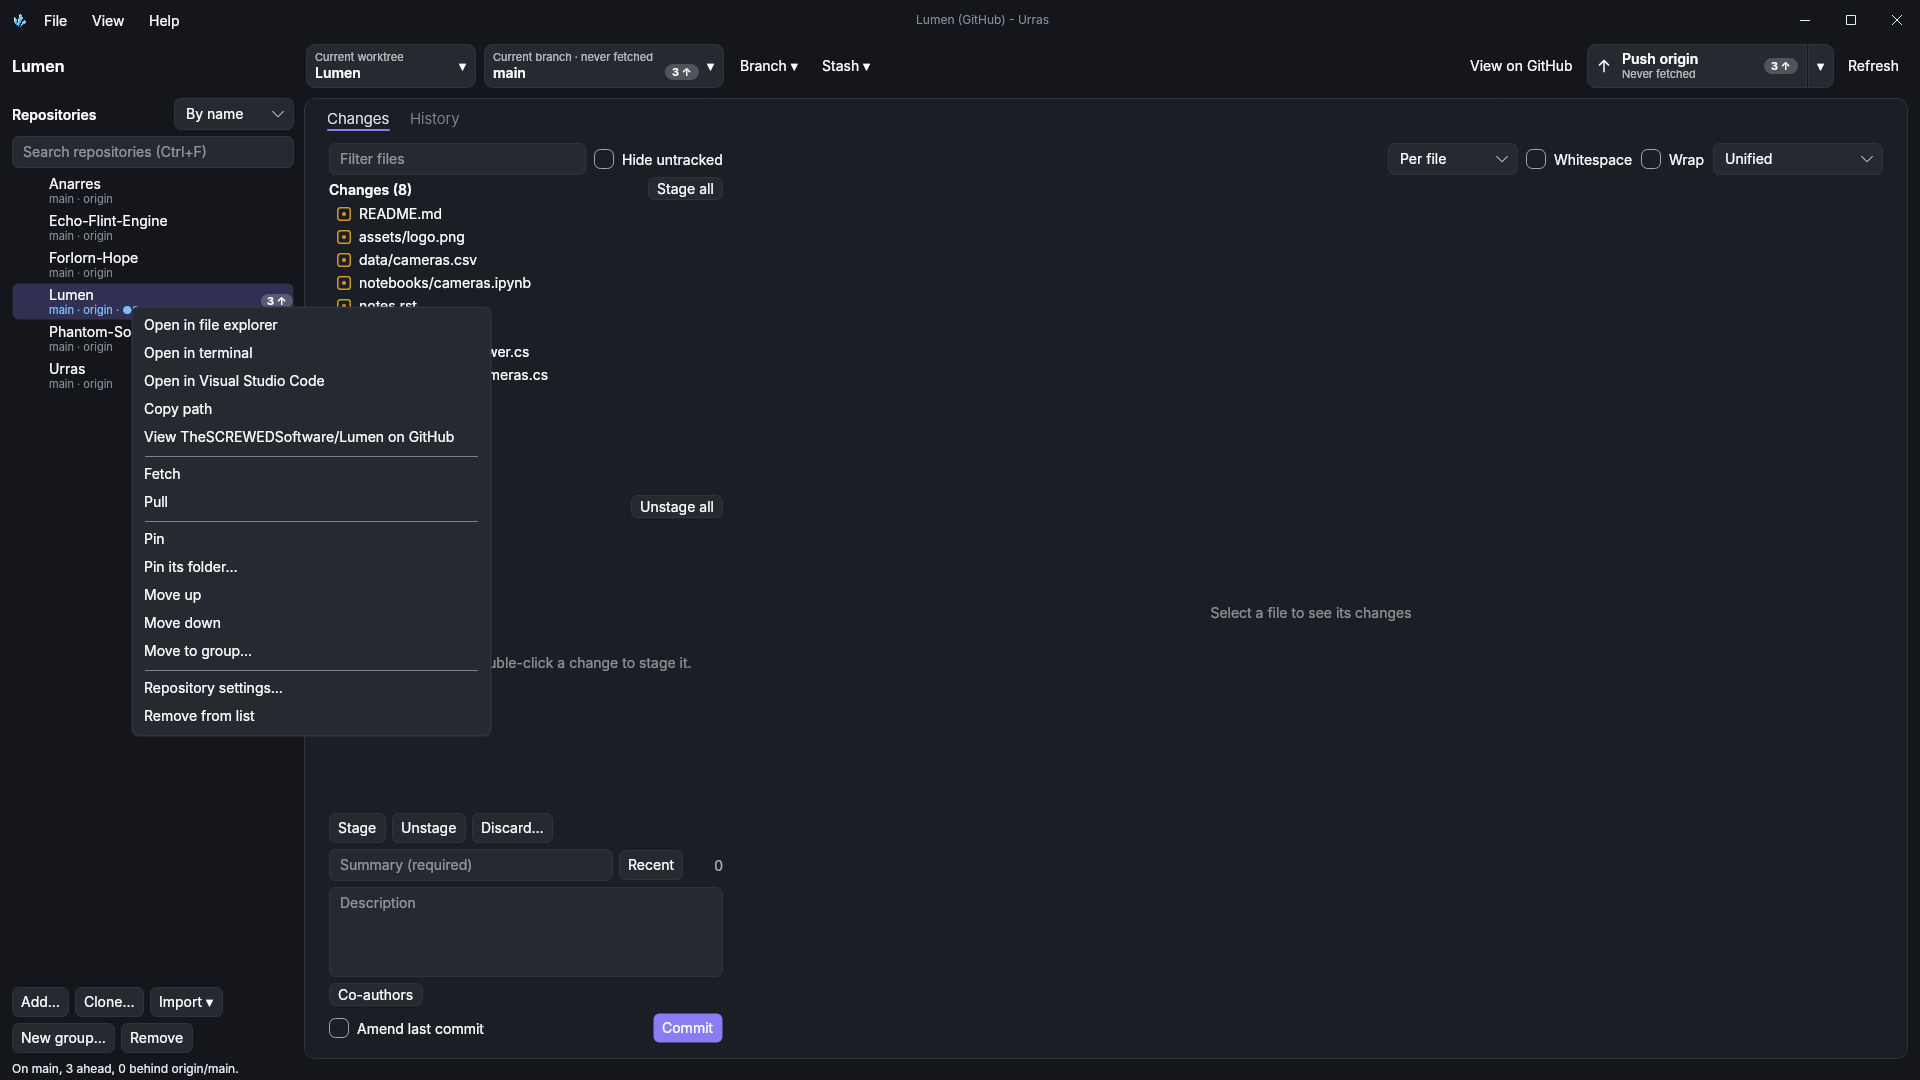
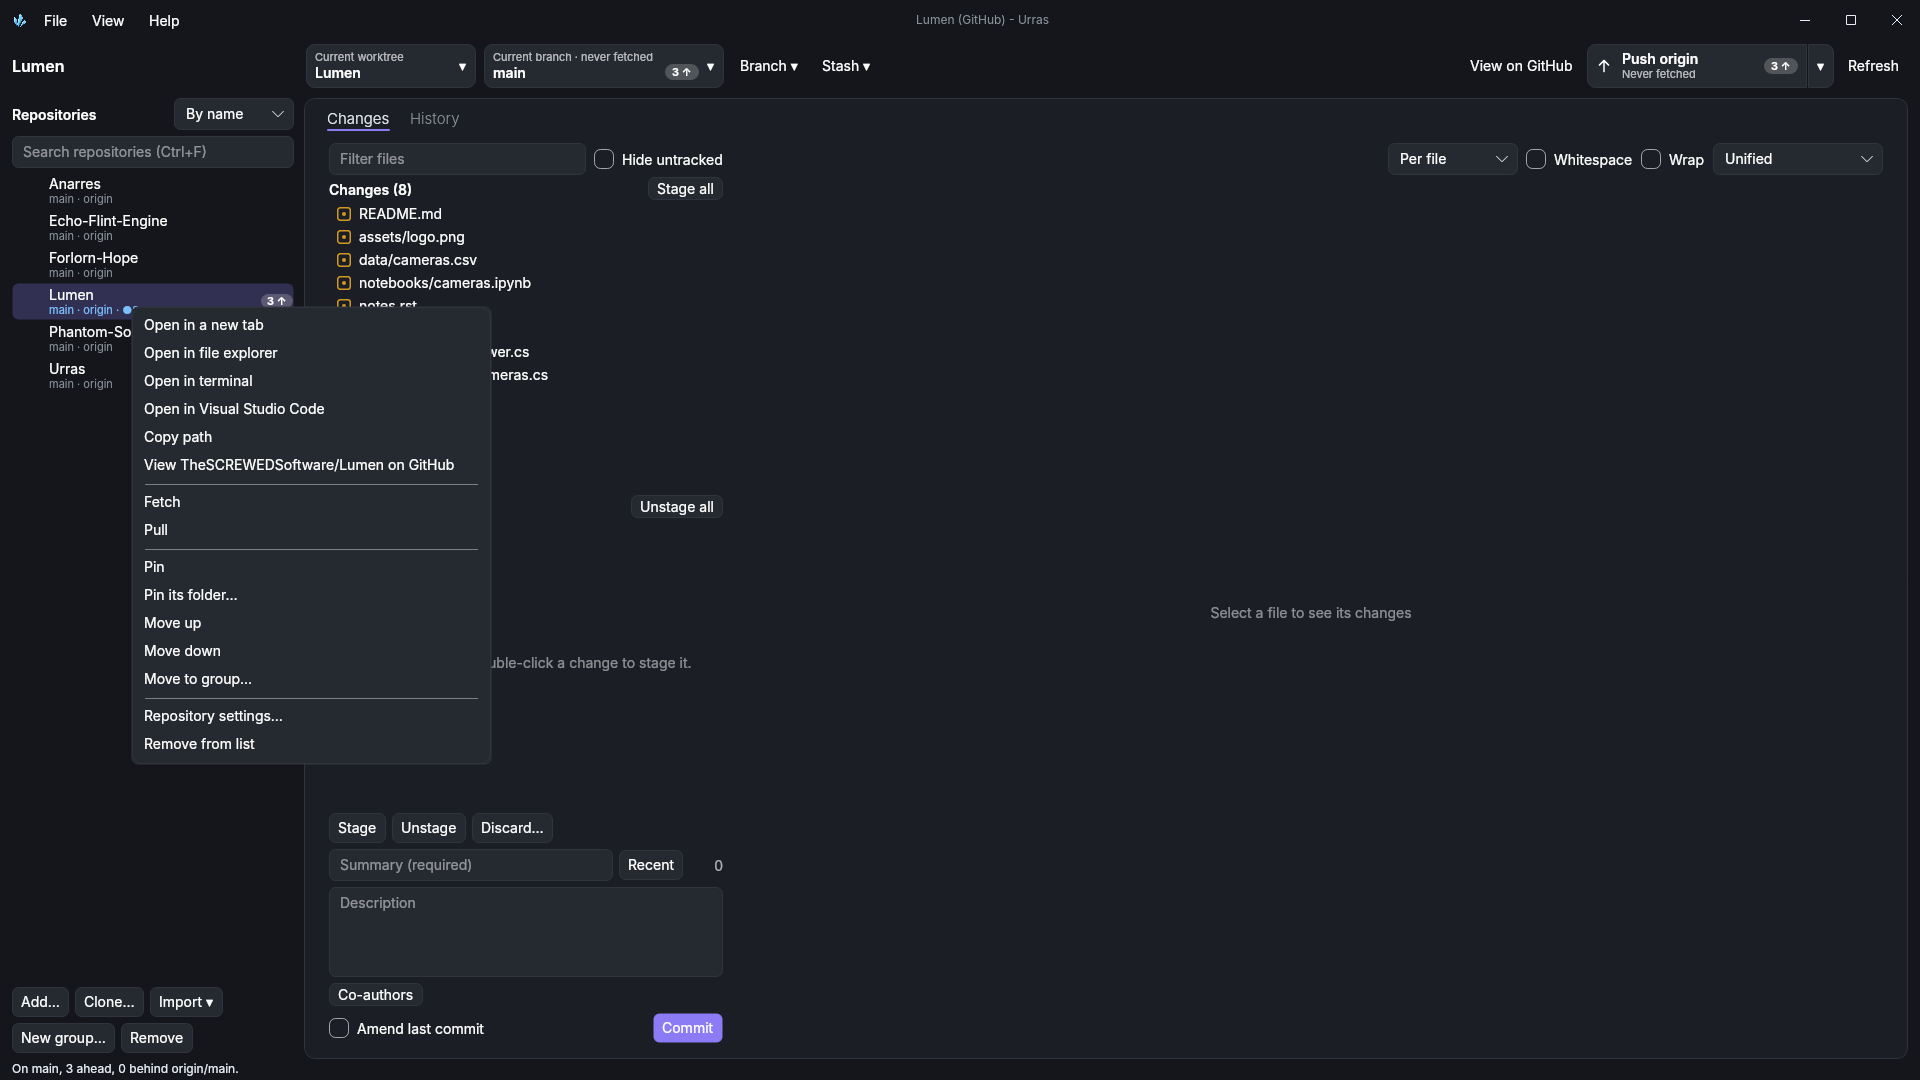
docs(Docs): Screenshots retaken, with repository tabs
Every screenshot is taken again from the current build, and a new
one shows repository tabs in the README and on the site.

Changed region(s): [[0.0625, 0.275, 0.25, 0.5194], [0.0625, 0.5194, 0.1562, 0.7028]]

diff --git a/site/index.html b/site/index.html
@@ -124,8 +124,8 @@
   <div class="cards">
     <div class="card">
       <h3>All your repositories</h3>
-      <p>Grouped by name with their forks, by folder, by owner or by hand. Pin, search (Ctrl+F) and import
-        everything from a folder or from GitHub Desktop in one go.</p>
+      <p>Grouped by name with their forks, by folder, by owner or by hand. Pin, search (Ctrl+F), open several in
+        tabs and import everything from a folder or from GitHub Desktop in one go.</p>
     </div>
     <div class="card">
       <h3>Changes, line by line</h3>
@@ -425,6 +425,12 @@
         <img src="thumbs/import-dialog.jpg" width="720" height="450" loading="lazy"
              alt="Adding many repositories at once"></a>
       <figcaption>Adding many repositories at once</figcaption>
+    </figure>
+    <figure>
+      <a href="screenshots/repository-tabs.png" class="shot">
+        <img src="thumbs/repository-tabs.jpg" width="720" height="450" loading="lazy"
+             alt="Repository tabs: each one keeps its page, commit, file and scroll"></a>
+      <figcaption>Repository tabs: each one keeps its page, commit, file and scroll</figcaption>
     </figure>
   </div>
   <h3 class="group">Look and settings</h3>

diff --git a/README.md b/README.md
@@ -171,6 +171,11 @@ demo repository with branches, beside Urras's own projects.
            alt="Screenshot: Clone: an address or a page of it, the branch, where it goes, its name, progress"><br>
       Clone: an address or a page of it, the branch, where it goes, its name, progress
     </td>
+    <td width="50%">
+      <img src="docs/screenshots/repository-tabs.png"
+           alt="Screenshot: Repository tabs: each one keeps its page, commit, file and scroll"><br>
+      Repository tabs: each one keeps its page, commit, file and scroll
+    </td>
   </tr>
 </table>
 
